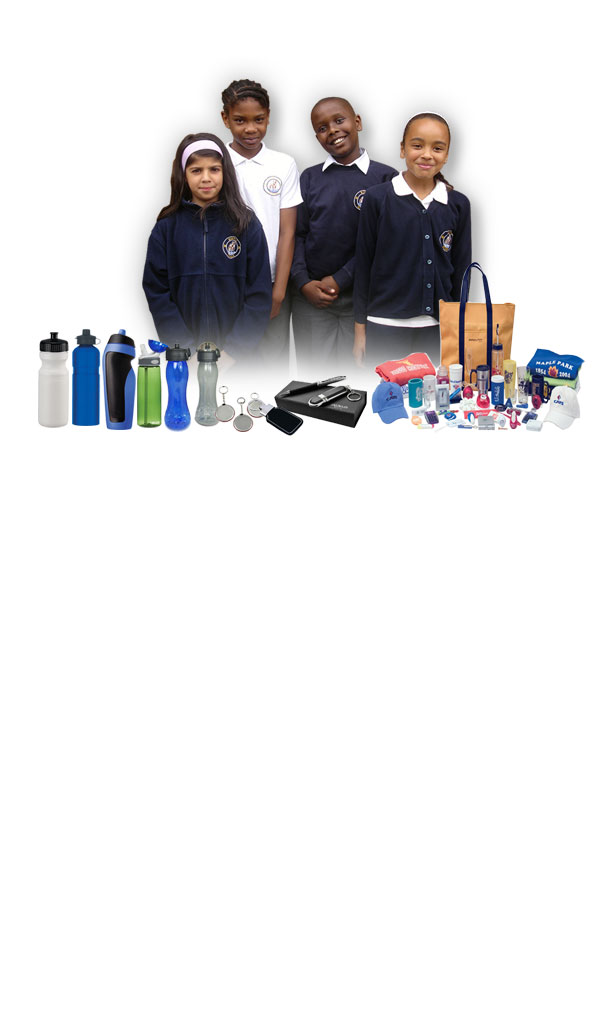
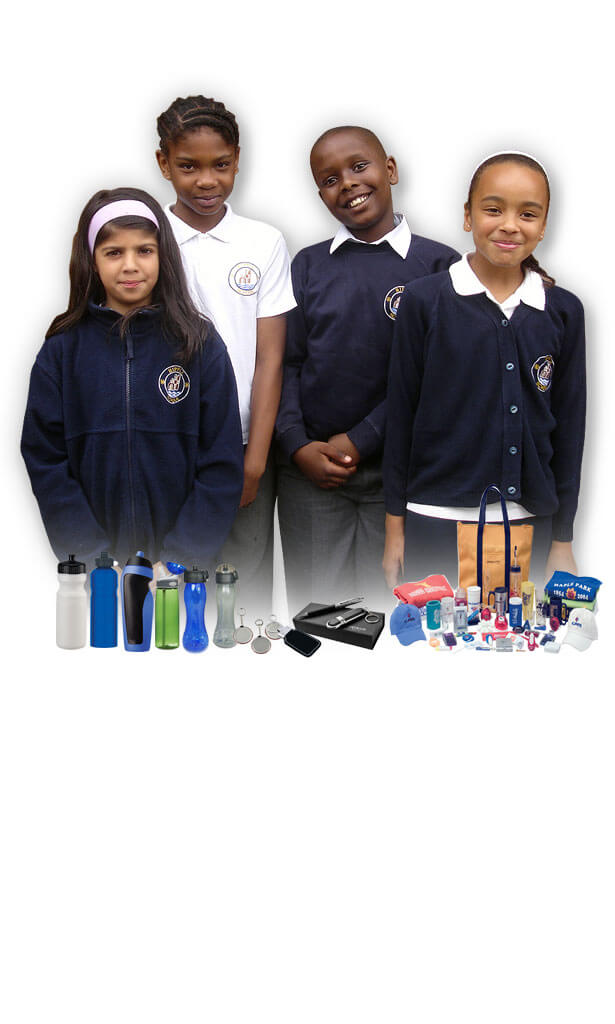
slider fixed

diff --git a/css/custom.css b/css/custom.css
@@ -1142,7 +1142,7 @@ li.comment {
 	-webkit-filter: blur(0);
 	-o-filter: blur(0);
 	filter: blur(0);
-	/* width: 100%; */	
+	width: 100%;	
 }
 
 /* Slider */
@@ -1152,13 +1152,20 @@ li.comment {
     left: 0;
     width: 100%;
 }
-
+.home-slider::after {
+    content: "";
+    position: fixed;
+    bottom: 0;
+    z-index: 99999;
+    width: 100%;
+    height: 50px;
+    background: #fff;
+}
 .orbit-container .orbit-prev,
 .orbit-container .orbit-next {
 	display: inline-block;
 	top: 25%;
 }
-
 .orbit-content {
     position: relative;
     margin-top: -220px;
@@ -1166,7 +1173,6 @@ li.comment {
     color: #333;
     z-index: 999;
 }
-
 .orbit-content .row > div {
     color: #fff;
     padding: 20px;

diff --git a/home.php b/home.php
@@ -39,44 +39,49 @@ function srh_slider() {
 			    </div>		  		
 		  	</div>
 		    <div class="show-for-large-up images slide-1"></div>
-		    <div class="show-for-medium-only images slide-1-medium">
+		    <div class="show-for-small-up images slide-1-medium">
 		    	<img src="<?php echo get_bloginfo('stylesheet_directory'); ?>/images/slide-1-medium.jpg" alt="slide 1" />
 		    </div>
 		    <div class="show-for-small-only images slide-1-small"></div>
 		    <!-- <img src="<?php echo get_bloginfo('stylesheet_directory'); ?>/images/Solar-and-Renewable-Energy.jpg" alt="slide 1" /> -->
 		  </li>
+
 		  <li class="slide-list">
-		    <div class="orbit-content">
-		    	<div class="row">
-		    		<div class="large-6 column">
-		    			<h4 class="entry-title">Medical Consumable</h4>
-		    		</div>
-		    	</div>
-		    </div>
+		  	<div class="wrap row">
+			    <div class="orbit-content large-12 column">
+			    	<div class="row">
+			    		<div class="large-6 column">
+			    			<h4 class="entry-title">Medical Consumable</h4>
+			    		</div>
+			    	</div>
+			    </div>		  		
+		  	</div>
 		    <div class="show-for-large-up images slide-2"></div>
-		    <div class="show-for-medium-only images slide-2-medium">
+		    <div class="show-for-small-up images slide-2-medium">
 		    	<img src="<?php echo get_bloginfo('stylesheet_directory'); ?>/images/slide-2-medium.jpg" alt="slide 2" />
 		    </div>
-		    <div class="show-for-small-only images slide-2-small"></div>
-		    <!-- <img src="<?php echo get_bloginfo('stylesheet_directory'); ?>/images/Medical-Consumable.jpg" alt="slide 2" /> -->
-
+		    <!-- <div class="show-for-small-only images slide-2-small"></div> -->
+		    <!-- <img src="<?php echo get_bloginfo('stylesheet_directory'); ?>/images/Solar-and-Renewable-Energy.jpg" alt="slide 2" /> -->
 		  </li>
+
 		  <li class="slide-list">
-		    <div class="orbit-content">
-		    	<div class="row">
-		    		<div class="large-6 column">
-		    			<h4 class="entry-title">Product Sourcing and OEM</h4>
-		    		</div>
-		    	</div>
-		    </div>
+		  	<div class="wrap row">
+			    <div class="orbit-content large-12 column">
+			    	<div class="row">
+			    		<div class="large-6 column">
+			    			<h4 class="entry-title">Product Sourcing and OEM</h4>
+			    		</div>
+			    	</div>
+			    </div>		  		
+		  	</div>
 		    <div class="show-for-large-up images slide-3"></div>
-		    <div class="show-for-medium-only images slide-3-medium">
+		    <div class="show-for-small-up images slide-3-medium">
 		    	<img src="<?php echo get_bloginfo('stylesheet_directory'); ?>/images/slide-3-medium.jpg" alt="slide 3" />
 		    </div>
-		    <div class="show-for-small-only images slide-3-small"></div>
-		    <!-- // <img src="<?php echo get_bloginfo('stylesheet_directory'); ?>/images/Product-Sourcing-and-OEM.jpg" alt="slide 3" /> -->
-
+		    <!-- <div class="show-for-small-only images slide-3-small"></div> -->
+		    <!-- <img src="<?php echo get_bloginfo('stylesheet_directory'); ?>/images/Solar-and-Renewable-Energy.jpg" alt="slide 3" /> -->
 		  </li>
+		  
 		</ul>
 	</div>
 
